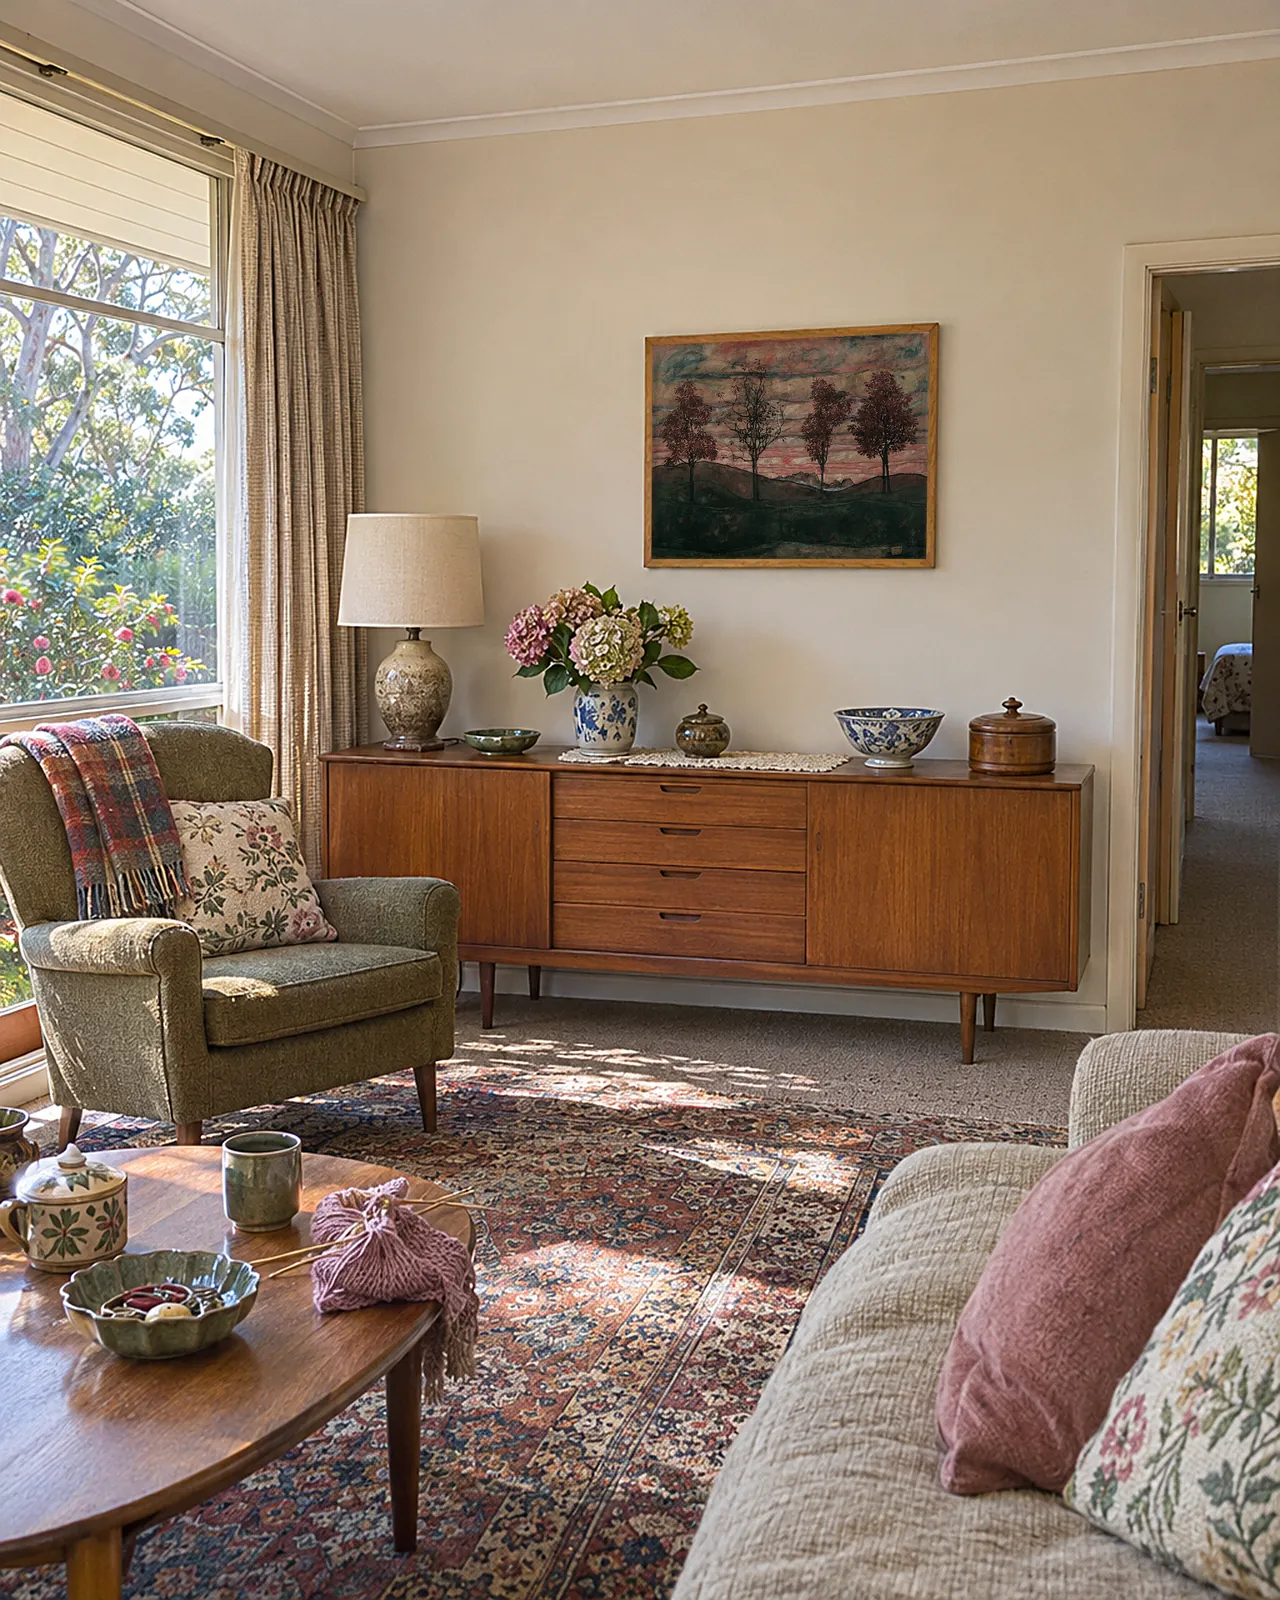
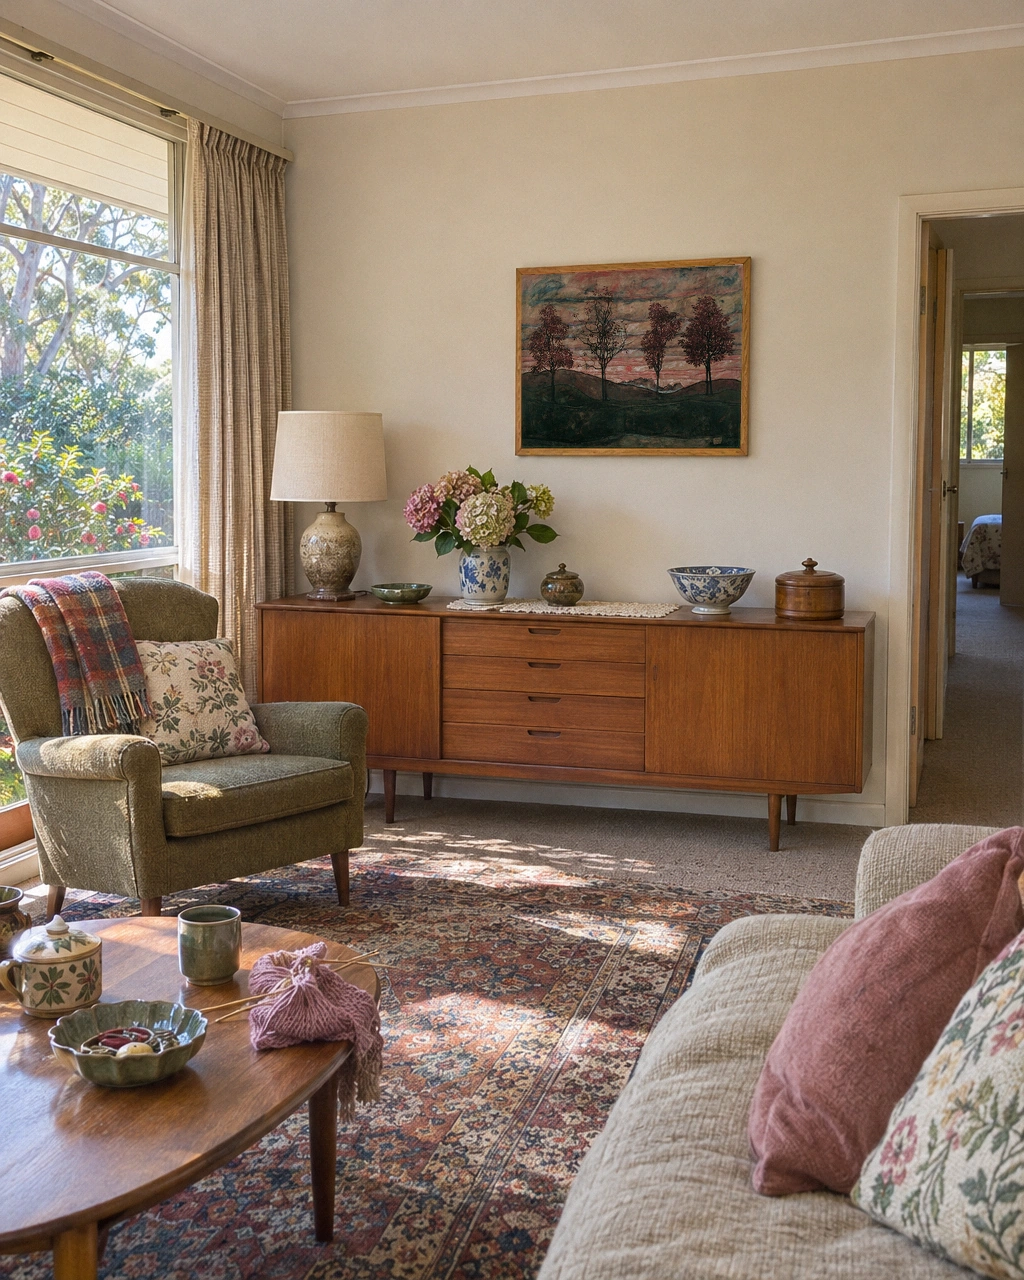
Replace lookbook mockups with re-rendered originals

diff --git a/shared/lookbook.ts b/shared/lookbook.ts
@@ -16,54 +16,54 @@ export interface LookbookShot {
 export const lookbook: LookbookShot[] = [
   {
     id: 'living-room-sideboard',
-    image: '/lookbook/living-room-sideboard.webp',
-    width: 2400,
-    height: 1600,
+    image: '/lookbook/living-room-sideboard.webp?v=3',
+    width: 1536,
+    height: 1024,
     alt: 'A Federation living room on an overcast afternoon, with stained-glass sash windows, a paper lamp and a trailing plant on a walnut sideboard, an armchair and an oval coffee table, with a pink and yellow abstract painting above the sideboard',
     paintingId: 'af-klint-ten-largest-no-7',
     room: 'Living room, overcast afternoon',
   },
   {
     id: 'lounge-evening',
-    image: '/lookbook/lounge-evening.webp',
-    width: 1280,
-    height: 1600,
+    image: '/lookbook/lounge-evening.webp?v=3',
+    width: 1024,
+    height: 1280,
     alt: 'A lamplit lounge at night with bay windows, full bookshelves, floral armchairs and a round coffee table stacked with books, with a teal moonlit river painting on the far wall',
     paintingId: 'whistler-nocturne-blue-and-gold',
     room: 'Lounge, evening',
   },
   {
     id: 'sitting-room-fireplace',
-    image: '/lookbook/sitting-room-fireplace.webp',
-    width: 1600,
-    height: 2000,
+    image: '/lookbook/sitting-room-fireplace.webp?v=3',
+    width: 1024,
+    height: 1280,
     alt: 'A lived-in Victorian sitting room with a white marble fireplace, a green velvet sofa under tartan throws, a worn timber coffee table and a lamp glowing by the window, with a dark Dutch flower still life in an oak frame above the mantel',
     paintingId: 'ruysch-flowers-marble-tabletop',
     room: 'Sitting room, late afternoon',
   },
   {
     id: 'dining-corner-morning',
-    image: '/lookbook/dining-corner-morning.webp',
-    width: 1280,
-    height: 1600,
+    image: '/lookbook/dining-corner-morning.webp?v=3',
+    width: 1024,
+    height: 1280,
     alt: 'An art deco dining corner on a weekday morning, with breakfast half cleared from a round timber table, a toddler\'s cup, wishbone chairs and a teak sideboard with wattle and oranges, with a geometric castle painting above',
     paintingId: 'klee-castle-and-sun',
     room: 'Dining corner, morning',
   },
   {
     id: 'bedroom-lake',
-    image: '/lookbook/bedroom-lake.webp',
-    width: 1280,
-    height: 1600,
+    image: '/lookbook/bedroom-lake.webp?v=3',
+    width: 1024,
+    height: 1280,
     alt: 'A weatherboard cottage bedroom on an overcast afternoon, with an unmade linen bed, an olive throw, a paper lantern and a timber chest of drawers with gum leaves, with a wide blue lake painting above',
     paintingId: 'gallen-kallela-lake-keitele',
     room: 'Bedroom, overcast',
   },
   {
     id: 'living-room-four-trees',
-    image: '/lookbook/living-room-four-trees.webp',
-    width: 1280,
-    height: 1600,
+    image: '/lookbook/living-room-four-trees.webp?v=3',
+    width: 1024,
+    height: 1280,
     alt: 'A 1960s living room in afternoon light, with a teak sideboard holding a lamp, hydrangeas and blue and white bowls, an olive armchair with a tartan throw and a Persian rug, with a painting of four autumn trees against a striped sunset above',
     paintingId: 'schiele-four-trees',
     room: 'Living room, afternoon',
